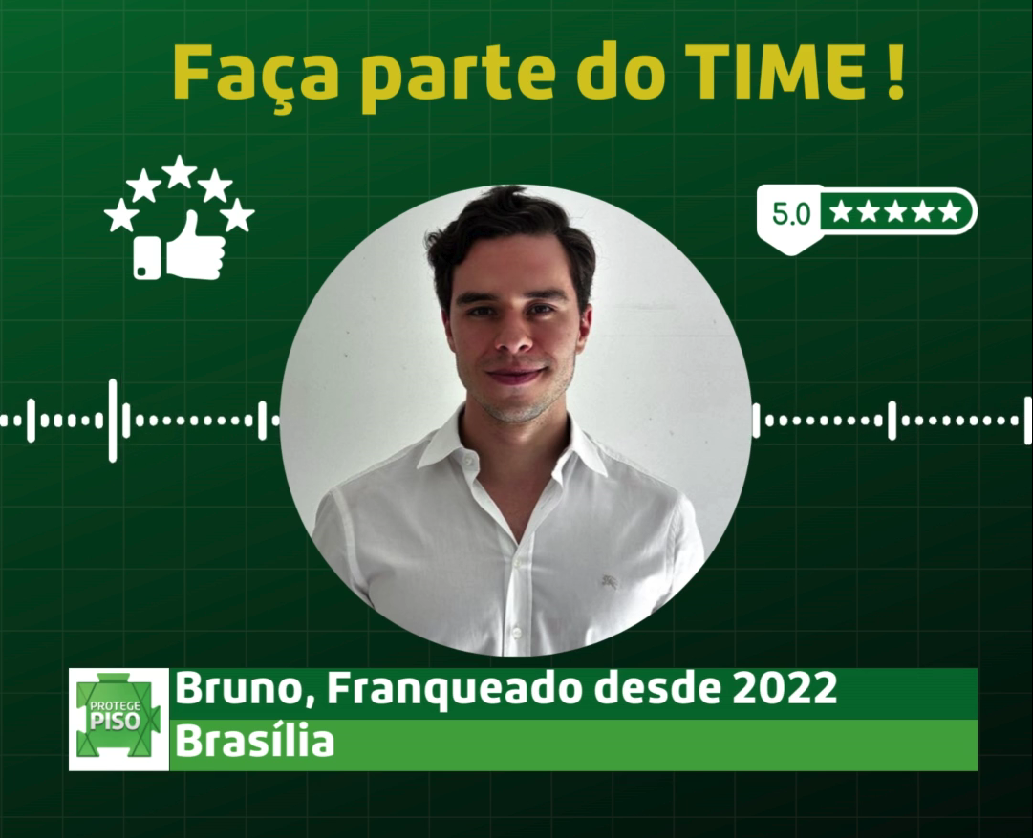
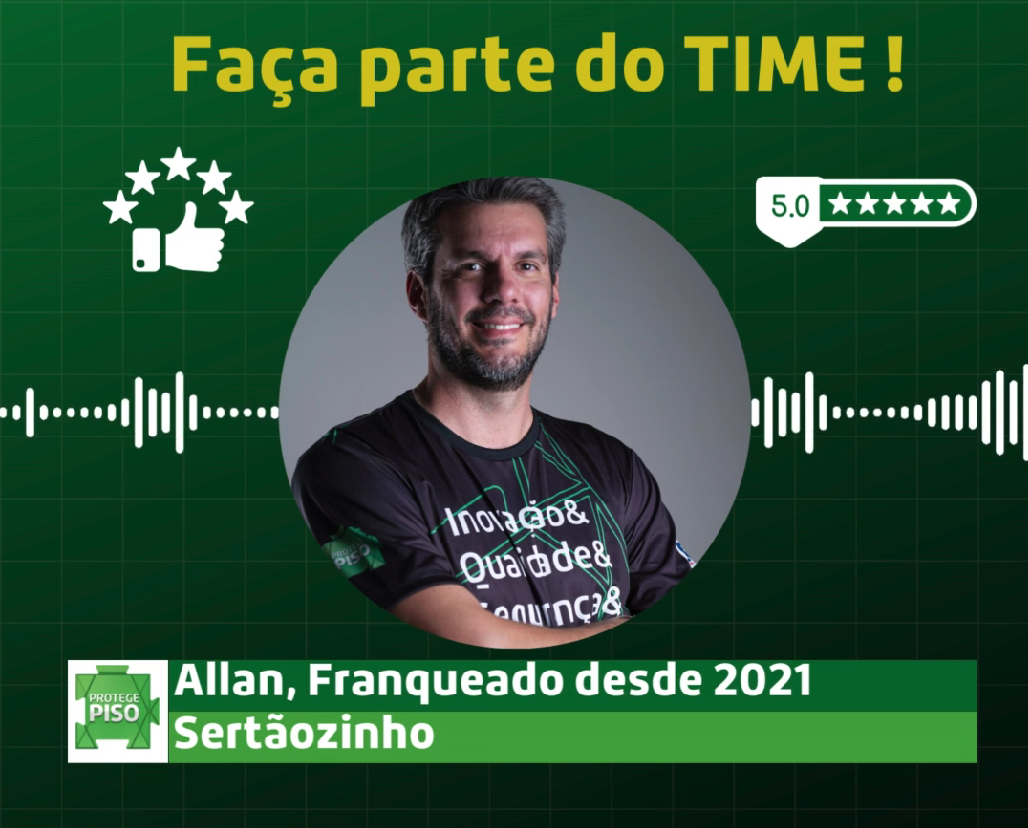
first commit franquia sertaozinho

diff --git a/index.html b/index.html
@@ -5,7 +5,7 @@
     <meta charset="UTF-8">
     <meta name="viewport" content="width=device-width, initial-scale=1.0">
     <meta name="Landing Page" content="Website da franquia da protege piso de Palmas">
-    <title>Protege Piso Brasília</title>
+    <title>Protege Piso Sertãozinho</title>
     <link rel="stylesheet" href="styles.css">
     <link rel="stylesheet" href="https://cdn.jsdelivr.net/npm/glider-js@1/glider.min.css">
     <script src="https://cdn.jsdelivr.net/npm/glider-js@1/glider.min.js"></script>
@@ -31,7 +31,7 @@
                 <div class="navbar-container">
                     <a href="#" class="logo">
                         <img src="./images/logoprotege.png" alt="Logo da protege piso">
-                        <h3>Brasília</h3>
+                        <h3>Sertãozinho</h3>
                     </a>
 
                     <div class="menu-toggle" id="mobile-menu" onclick="toggleMenu()">
@@ -45,7 +45,7 @@
                         <li class="nav-item"><a href="#Informacoes" class="nav-link">Informações</a></li>
                         <li class="nav-item"><a href="#" class="nav-link" id="openChatBtn">Seja um franqueado</a></li>
                         <li class="nav-item">
-                            <a href="https://api.whatsapp.com/send?phone=5561996903835" target="_blank">
+                            <a href="https://api.whatsapp.com/send?phone=5516996098096" target="_blank">
                                 <img src="images/icone_whatsapp.png" alt="icone logo whatsapp" class="whatsapp-icon-nav"
                                     style="margin-right: 10px;">
                             </a>
@@ -172,7 +172,7 @@
             </p>
         </div>
         <div class="container-iframe">
-            <iframe src="https://app.ketzim.com/webservice/mapa/brasilia/" class="iframe-full" title="Mapa das obras realizadas na cidade da franquia"></iframe>
+            <iframe src="https://app.ketzim.com/webservice/mapa/sertaozinho/" class="iframe-full" title="Mapa das obras realizadas na cidade da franquia"></iframe>
         </div>
     </section>
 
@@ -185,7 +185,7 @@
                 <p id="followers"></p>
                 <p id="posts"></p>
             </div>
-            <a href="https://www.instagram.com/protegepisobrasilia/" target="_blank"><button type="button"
+            <a href="https://www.instagram.com/protegepisosertaozinho/" target="_blank"><button type="button"
                     class="botao-seguir">Seguir</button></a>
         </div>
         <div class="glider-contain-custom">
@@ -197,7 +197,7 @@
     </section>
 
     <section class="container-quem-somos" id="QuemSomos">
-        <h3>EM BRASÍLIA DESDE 2022</h3>
+        <h3>EM SERTÃOZINHO DESDE 2022</h3>
         <img src="images/na_cidade_desde.PNG" class="imagem-quem-somos" alt="imagem do franqueado">
     </section>
 
@@ -208,20 +208,20 @@
 
         <div class="rodape-informacoes">
             <h5>Franquia</h5>
-            <p>bruno@protegepiso.com.br</p>
+            <p>sertaozinho@protegepiso.com.br</p>
             <div class="item-rodape">
-                <a href="https://api.whatsapp.com/send?phone=5561996903835" target="_blank">
+                <a href="https://api.whatsapp.com/send?phone=5516996098096" target="_blank">
                     <img src="images/icone_whatsapp.png" alt="icone logo whatsapp"
                         class="rodape-informacoes-icone-whatsapp">
                 </a>
-                <p>(61) 99690-3835</p>
+                <p>(16) 99609-8096</p>
             </div>
             <div class="item-rodape">
-                <a href="https://www.instagram.com/protegepisobrasilia/" target="_blank">
+                <a href="https://www.instagram.com/protegepisosertaozinho/" target="_blank">
                     <img src="images/icone_instagram.png" alt="icone logo instagram"
                         class="rodape-informacoes-icone-instagram">
                 </a>
-                <p>@protegepisobrasilia</p>
+                <p>@protegepisosertaozinho</p>
             </div>
         </div>
 

diff --git a/index.js b/index.js
@@ -39,7 +39,7 @@ function toggleMenu() {
     menu.classList.toggle('active');
 }
 
-const apiUrl = 'https://app.ketzim.com/webservice/get-instagram-info/ProtegePisoBrasilia/?Token=Ld7gRCo9JtIRw0Ub3sC3JxuCgIMvSAzJEMLSutCPh9XosGzzqpdlhsqhUYXHHRyHKPZ6MHcwfl8Dl7ohzsKv7jpihquxHvFmEkFJ';
+const apiUrl = 'https://app.ketzim.com/webservice/get-instagram-info/ProtegePisoSertaozinho/?Token=Ld7gRCo9JtIRw0Ub3sC3JxuCgIMvSAzJEMLSutCPh9XosGzzqpdlhsqhUYXHHRyHKPZ6MHcwfl8Dl7ohzsKv7jpihquxHvFmEkFJ';
 
 function displayUserProfile(profile) {
     document.getElementById('profile-picture').src = profile.profile_picture_url;
@@ -134,7 +134,7 @@ function waitForJivoChat() {
 waitForJivoChat();
 
 const iframeContainer = document.querySelector('.container-iframe');
-const iframeUrl = 'https://app.ketzim.com/webservice/mapa/brasilia/';
+const iframeUrl = 'https://app.ketzim.com/webservice/mapa/sertaozinho/';
 
 
 fetch(iframeUrl)
